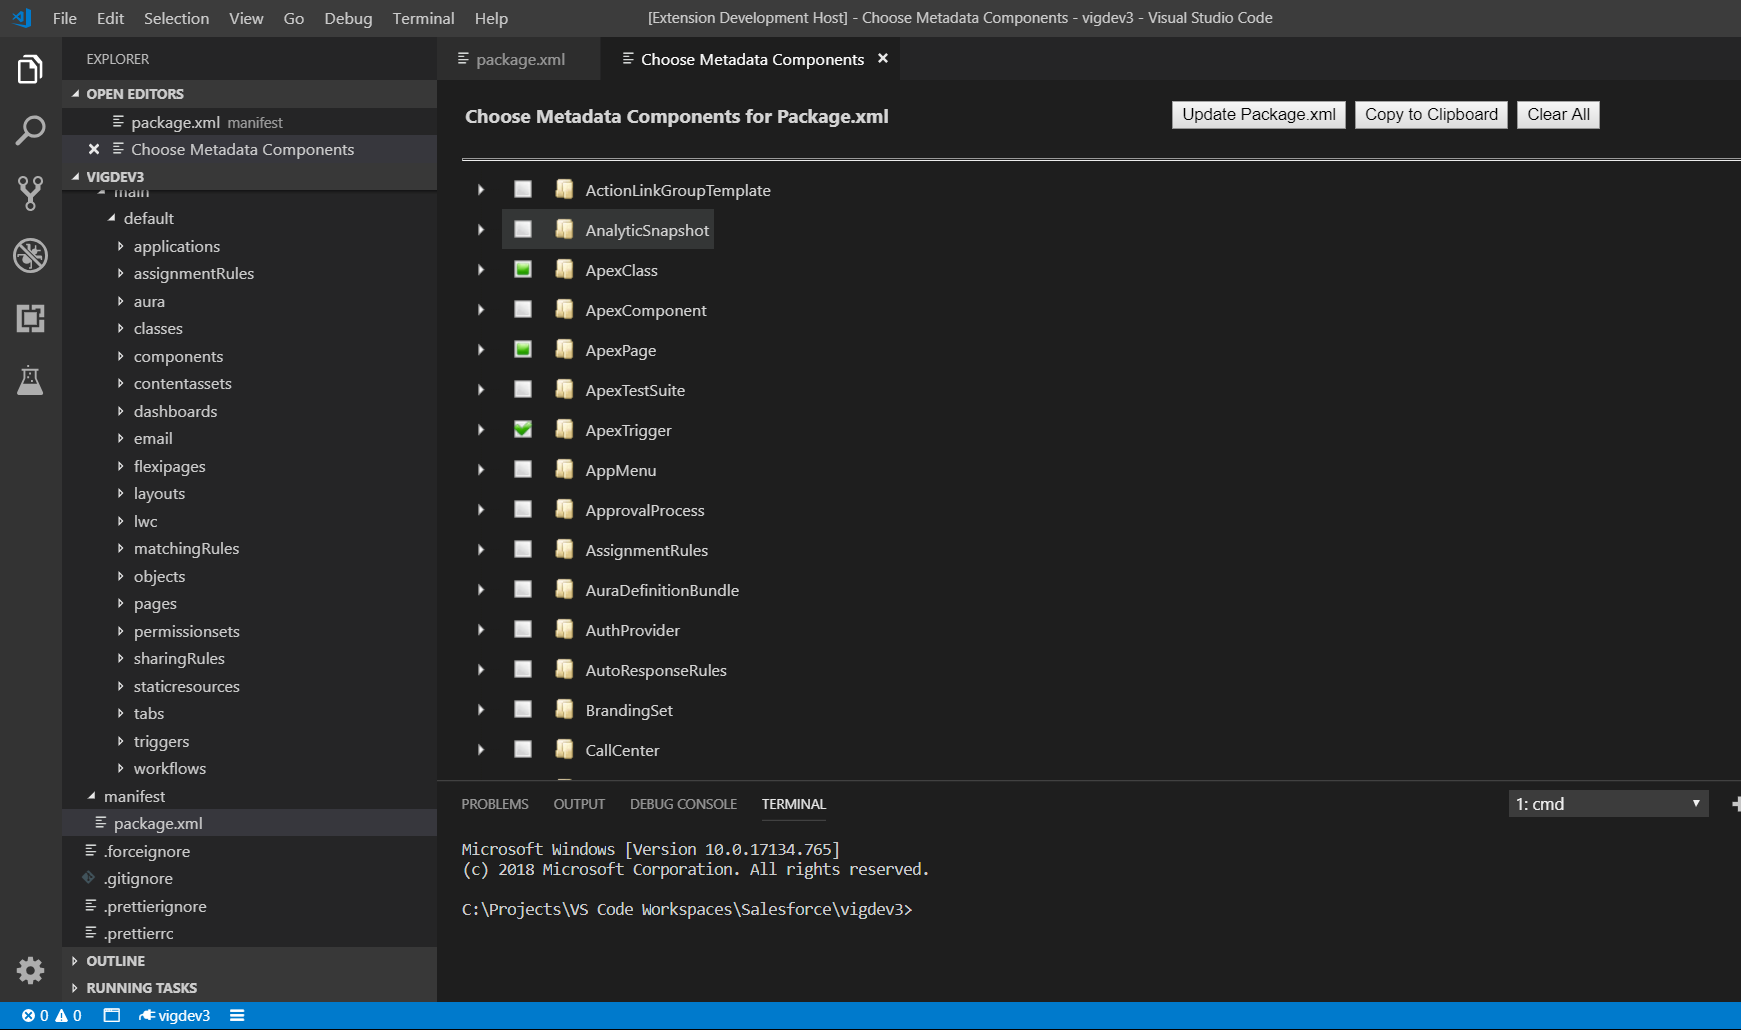
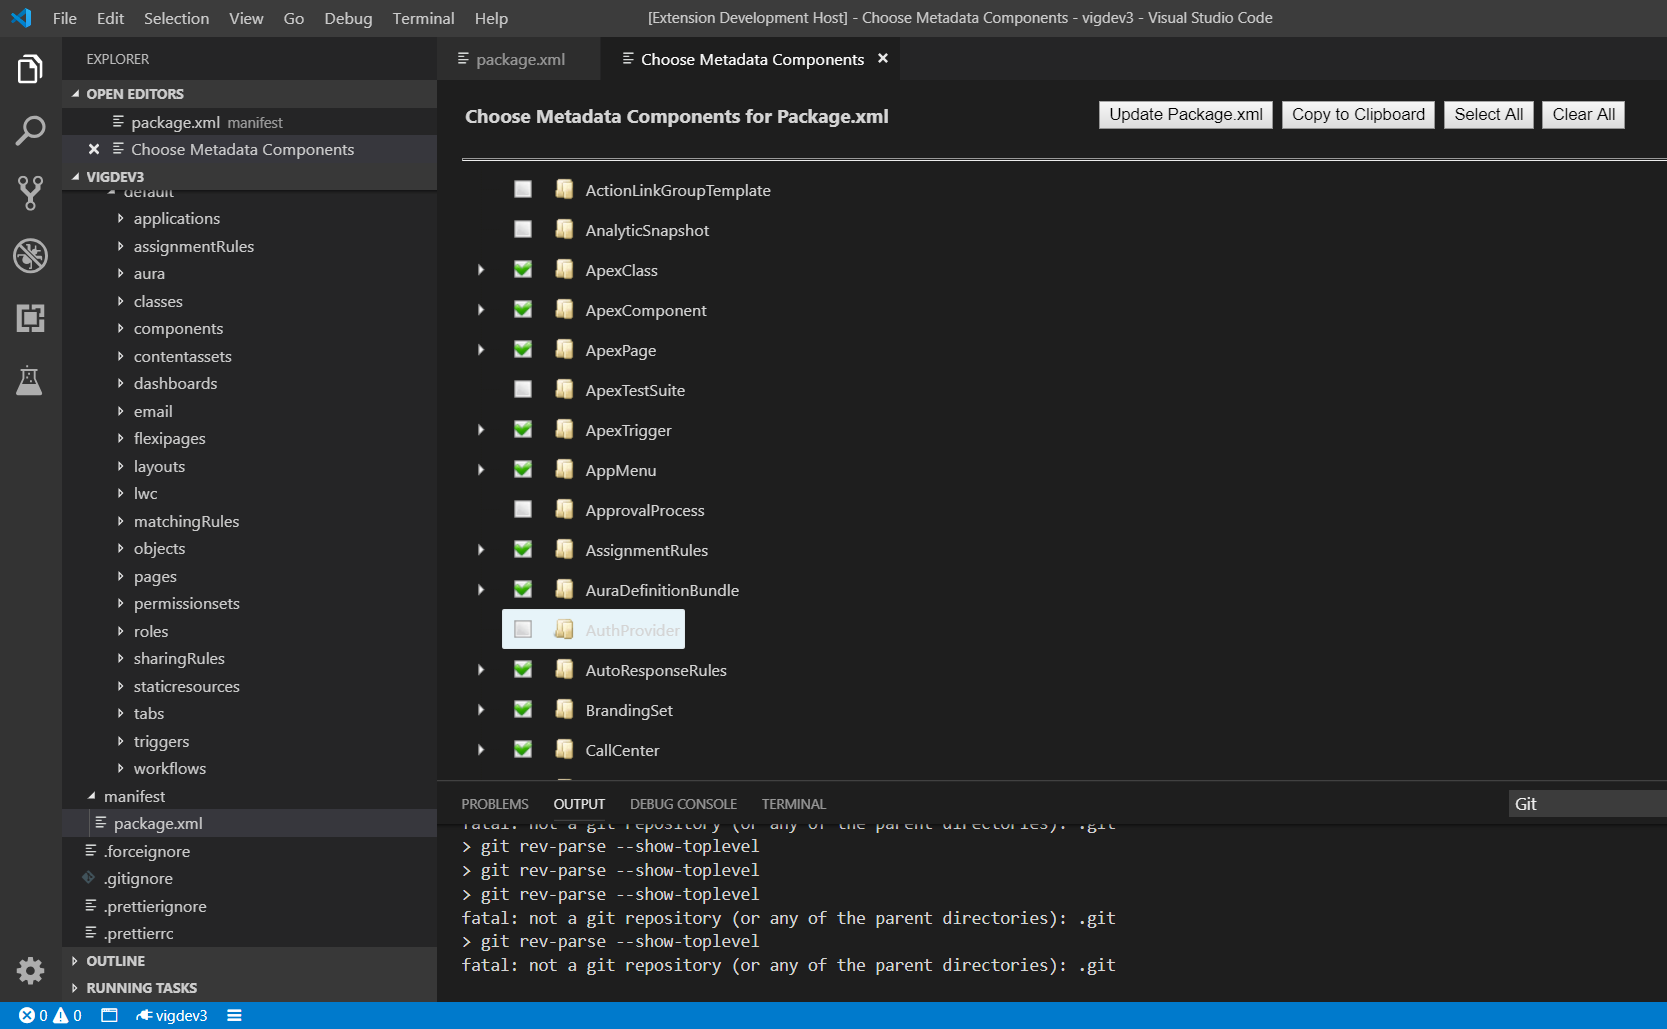
select all functionality added

diff --git a/out/extension.js b/out/extension.js
@@ -59,6 +59,7 @@ class CodingPanel {
         this.VERSION_NUM = '46.0';
         this.CHAR_TAB = '\t';
         this.LOADING = '*loading..';
+        this.infoMsg = 'All metadata selected except ';
         this._panel = panel;
         this._extensionPath = extensionPath;
         // Set the webview's initial html content
@@ -95,6 +96,11 @@ class CodingPanel {
                 case 'copyToClipboard':
                     console.log('onDidReceiveMessage copyToClipboard');
                     this.buildPackageXML(message.selectedNodes, true);
+                    return;
+                case 'selectAll':
+                    console.log('onDidReceiveMessage selectAll');
+                    let selectedMetadata = message.selectedMetadata;
+                    this.fetchAllChildren(selectedMetadata, 0);
                     return;
             }
         }, null, this._disposables);
@@ -369,6 +375,67 @@ class CodingPanel {
             });
         }
     }
+    fetchAllChildren(selectedMetadata, index) {
+        console.log('Invoked fetchAllChildren');
+        if (!selectedMetadata || selectedMetadata.length == 0) {
+            return;
+        }
+        if (index == selectedMetadata.length) { //end condition
+            let mpKeys = [];
+            for (let key in this.reportFolderMap) {
+                mpKeys.push(key);
+            }
+            vscode.window.showInformationMessage(this.infoMsg + mpKeys.join());
+            return;
+        }
+        let mType = selectedMetadata[index];
+        vscode.window.withProgress({
+            location: vscode.ProgressLocation.Notification,
+            title: "Processing Metadata : " + mType,
+            cancellable: true
+        }, (progress, token) => {
+            token.onCancellationRequested(() => {
+                console.log("User canceled the long running operation");
+            });
+            var p = new Promise(resolve => {
+                let sfdxCmd = "sfdx force:mdapi:listmetadata --json -m " + mType;
+                let foo = child.exec(sfdxCmd, {
+                    cwd: vscode.workspace.workspaceFolders[0].uri.fsPath
+                });
+                let bufferOutData = '';
+                foo.stdout.on("data", (dataArg) => {
+                    console.log('stdout: ' + dataArg);
+                    bufferOutData += dataArg;
+                    /*let data = JSON.parse(dataArg);
+                    let depArr=[];
+                    let results = data.result;
+                    this._panel.webview.postMessage({ command: 'listmetadata', results : results , metadataType : mType});
+                    resolve();*/
+                });
+                foo.stderr.on("data", (data) => {
+                    console.log('stderr: ' + data);
+                    vscode.window.showErrorMessage(data);
+                    resolve();
+                });
+                foo.stdin.on("data", (data) => {
+                    console.log('stdin: ' + data);
+                    //vscode.window.showErrorMessage(data);
+                    resolve();
+                });
+                foo.on('exit', (code, signal) => {
+                    console.log('exit code ' + code);
+                    console.log('bufferOutData ' + bufferOutData);
+                    let data = JSON.parse(bufferOutData);
+                    let depArr = [];
+                    let results = data.result;
+                    this._panel.webview.postMessage({ command: 'listmetadata', results: results, metadataType: mType });
+                    resolve();
+                    this.fetchAllChildren(selectedMetadata, ++index); //recurse through other metadata
+                });
+            });
+            return p;
+        });
+    }
     getComponentsInsideFolders(folderNames, mType, index, resultsArr) {
         if (index == folderNames.length) {
             this._panel.webview.postMessage({ command: 'listmetadata', results: resultsArr, metadataType: mType });
@@ -599,6 +666,7 @@ class CodingPanel {
 						<td>
 						<button id="buildBtn">Update Package.xml</button>&nbsp;
 						<button id="copyBtn">Copy to Clipboard</button>&nbsp;
+						<button id="selectAllBtn">Select All</button>&nbsp;
 						<button id="clearAllBtn">Clear All</button>
 						</td>
 						</tr>

diff --git a/src/extension.ts b/src/extension.ts
@@ -73,6 +73,7 @@ class CodingPanel {
 	private VERSION_NUM='46.0';
 	private CHAR_TAB='\t';
 	private LOADING='*loading..';
+	private infoMsg='All metadata selected except ';
 
 	public static createOrShow(extensionPath: string) {
 		const column = vscode.window.activeTextEditor
@@ -153,6 +154,13 @@ class CodingPanel {
 							console.log('onDidReceiveMessage copyToClipboard');
 							this.buildPackageXML(message.selectedNodes,true);
 							return;
+
+					case 'selectAll':
+							console.log('onDidReceiveMessage selectAll');
+							let selectedMetadata = message.selectedMetadata;
+							this.fetchAllChildren(selectedMetadata,0);
+							return;
+
 				}
 			},
 			null,
@@ -491,6 +499,89 @@ class CodingPanel {
 
 	} 
 
+	public fetchAllChildren(selectedMetadata,index){
+		
+			console.log('Invoked fetchAllChildren');
+			if(!selectedMetadata || selectedMetadata.length==0){
+				return;
+			}
+
+			if(index==selectedMetadata.length){//end condition
+				let mpKeys=[];
+				for(let key in this.reportFolderMap){
+					mpKeys.push(key);
+				}
+				vscode.window.showInformationMessage(this.infoMsg+mpKeys.join());
+				return;
+
+			}
+			
+
+			let mType=selectedMetadata[index];
+			
+	
+			vscode.window.withProgress({
+				location: vscode.ProgressLocation.Notification,
+				title: "Processing Metadata : "+mType,
+				cancellable: true
+			}, (progress, token) => {
+				
+				token.onCancellationRequested(() => {
+					console.log("User canceled the long running operation");
+				});
+	
+				
+	
+				var p = new Promise(resolve => {
+					let sfdxCmd ="sfdx force:mdapi:listmetadata --json -m "+mType;
+					let foo: child.ChildProcess = child.exec(sfdxCmd,{
+					cwd: vscode.workspace.workspaceFolders[0].uri.fsPath
+					});
+
+					let bufferOutData='';
+
+				foo.stdout.on("data",(dataArg : any)=> {
+					console.log('stdout: ' + dataArg);
+					bufferOutData+=dataArg;
+					
+					/*let data = JSON.parse(dataArg);
+					let depArr=[];
+					let results = data.result;
+					this._panel.webview.postMessage({ command: 'listmetadata', results : results , metadataType : mType});
+					resolve();*/
+				});
+		
+				foo.stderr.on("data",(data : any)=> {
+					console.log('stderr: ' + data);
+					vscode.window.showErrorMessage(data);
+					resolve();
+				});
+		
+				foo.stdin.on("data",(data : any)=> {
+					console.log('stdin: ' + data);
+					//vscode.window.showErrorMessage(data);
+					resolve();
+				});
+				
+				foo.on('exit',(code,signal)=>{
+					console.log('exit code '+code);
+					console.log('bufferOutData '+bufferOutData);
+					
+					let data = JSON.parse(bufferOutData);
+					let depArr=[];
+					let results = data.result;
+					this._panel.webview.postMessage({ command: 'listmetadata', results : results , metadataType : mType});
+					resolve();
+					this.fetchAllChildren(selectedMetadata,++index);//recurse through other metadata
+				});
+					
+				});
+	
+				return p;
+				
+			});
+
+	}
 	public getComponentsInsideFolders(folderNames,mType,index,resultsArr){
 		 		if(index==folderNames.length){
 					this._panel.webview.postMessage({ command: 'listmetadata', results : resultsArr , metadataType : mType});
@@ -786,6 +877,7 @@ private getMetadataTypes(mpExistingPackageXML){
 						<td>
 						<button id="buildBtn">Update Package.xml</button>&nbsp;
 						<button id="copyBtn">Copy to Clipboard</button>&nbsp;
+						<button id="selectAllBtn">Select All</button>&nbsp;
 						<button id="clearAllBtn">Clear All</button>
 						</td>
 						</tr>

diff --git a/media/main.js b/media/main.js
@@ -31,7 +31,7 @@ window.addEventListener('message', event => {
                         
                         if(childName==='*'){
                             isWildChar=true;
-                            childArr.push({ "text" : LOADING});
+                            childArr.push({"id" : xmlName+'.'+"loading", "text" : LOADING});
                             continue;
                         }
 
@@ -58,7 +58,7 @@ window.addEventListener('message', event => {
                 }else{
                     jsTreeData.push({ "id" : metadataObjects[i].xmlName, "text" : metadataObjects[i].xmlName, 
                     isRefreshedFromServer : false,
-                    children : [{ "text" : LOADING}], inFolder : metadataObjects[i].inFolder ,isParent  : true
+                    children : [{ "id" : xmlName+'.'+"loading", "text" : LOADING}], inFolder : metadataObjects[i].inFolder ,isParent  : true
                      , a_attr : {href : "javaScript:void(0);"}}
                    );
                 }
@@ -217,6 +217,29 @@ $('#jstree').on("select_node.jstree", function(e, data) {
     });
   
   });
+
+  $('#selectAllBtn').on('click', function () {
+    console.log('Select All invoked');
+    
+    let tData =$('#jstree').jstree(true).settings.core.data;
+    let parNodeArr=[];        
+    for(let i=0;i<tData.length;i++){
+        if(!tData[i].inFolder){
+            parNodeArr.push(tData[i].id);
+        }
+        
+    }
+    parNodeArr.sort();
+    vscode.postMessage({
+        command: 'selectAll',
+        selectedMetadata : parNodeArr
+    });
+
+    process=false;
+    $('#jstree').jstree('select_node', parNodeArr,true,true);
+    process=true;
+
+});
 
 });
 

diff --git a/README.md b/README.md
@@ -20,4 +20,5 @@ For more details refer [Org Development Model with VS Code] (https://forcedotcom
 - In Choose Metadata Components for Package.xml page, select the Metadata you need and click on **Update Package.xml** button.
 - Package.xml file opens up with the selected metadata components.
 - Open the command palette (press Ctrl+Shift+P on Windows or Linux, or Cmd+Shift+P on macOS) and run **SFDX: Retrieve Source in Manifest from Org**
+- **Select All** button selects all the metadata components expect Reports, Dashboards, Email Templates and Documents.
 - If you don't want to modify the existing package.xml file & only want the generated xml content, click on **Copy to Clipboard** button. This copies the formatted package.xml contents to clipboard which can be pasted somewhere else.
